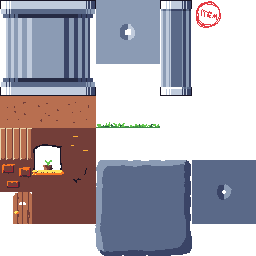
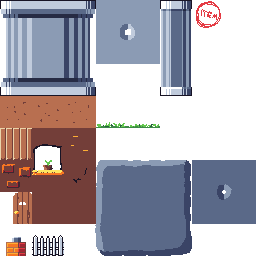
Removed spammy logs. Added a few tiles

Changed region(s): [[0.0, 0.9062, 0.25, 1.0]]

diff --git a/src/storyScene.ts b/src/storyScene.ts
@@ -45,16 +45,16 @@ export class StoryScene extends Scene {
       'Go kill!'
     ],
 
-    // 2 - Return home, shield taken
+    // 2 - You may take a vacation
     ['Champion!'],
 
-    // 3 - Shield still gone
+    // 3 - Want to find fluffy? we'll take shield
+    ['Gimme shield?'],
+
+    // 4 - Shield still gone?
     ['Miss your shield?'],
 
-    // 4 - Still at the quest?! Bow taken
-    ['Gimme bow'],
-
-    // 5 - How dare you!?
+    // 5 - bow gone!
     ['RRAAAA'],
 
     // 6 - Double jump taken
@@ -89,9 +89,7 @@ export class StoryScene extends Scene {
     this.nextLineKey = this.input.keyboard.addKey(Input.Keyboard.KeyCodes.SPACE);
     this.createDeityPortraits();
     this.createTextBox();
-
     this.showProperDeity();
-
   }
 
   createBackground() {
@@ -123,6 +121,8 @@ export class StoryScene extends Scene {
       Number(this.game.config.height) - this.normaldeity.height,
       this.normaldeity.width,
       this.normaldeity.height);
+
+    console.log('lines this time', this.lines[this.levelNumber].length);
   }
 
 
@@ -159,6 +159,7 @@ export class StoryScene extends Scene {
 
   update() {
     if (Input.Keyboard.JustDown(this.nextLineKey)) {
+      console.log('currentLine', this.currentLine);
       this.currentLine++;
       if (this.currentLine >= this.lines[this.levelNumber].length) {
         this.scene.start('GameScene', { levelNumber: this.levelNumber });

diff --git a/src/entities/player.ts b/src/entities/player.ts
@@ -97,13 +97,10 @@ export class Player extends Physics.Arcade.Sprite {
       }
       const hopSound = Math.round(Math.random() * 2) + 1;
       if (hopSound === 1) {
-        console.log('1');
         this.hopSound1.play();
       } else if (hopSound === 2) {
-        console.log('2');
         this.hopSound2.play();
       } else if (hopSound === 3) {
-        console.log('3');
         this.hopSound3.play();
       }
       this.setVelocityY(-200);

diff --git a/src/entities/playerbow.ts b/src/entities/playerbow.ts
@@ -57,13 +57,10 @@ export class PlayerBow extends GameObjects.Sprite {
   shoot() {
     const bowSound = Math.round(Math.random() * 2) + 1;
     if (bowSound === 1) {
-      console.log('1');
       this.bowSound1.play();
     } else if (bowSound === 2) {
-      console.log('2');
       this.bowSound2.play();
     } else if (bowSound === 3) {
-      console.log('3');
       this.bowSound3.play();
     }
     this.isFiring = true;

diff --git a/src/entities/enemybow.ts b/src/entities/enemybow.ts
@@ -53,13 +53,10 @@ export class EnemyBow extends GameObjects.Sprite {
   shoot() {
     const bowSound = Math.round(Math.random() * 2) + 1;
     if (bowSound === 1) {
-      console.log('1');
       this.bowSound1.play();
     } else if (bowSound === 2) {
-      console.log('2');
       this.bowSound2.play();
     } else if (bowSound === 3) {
-      console.log('3');
       this.bowSound3.play();
     }
     this.isFiring = true;
